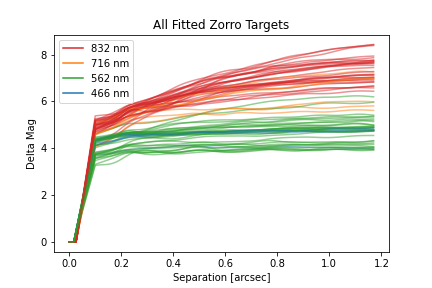
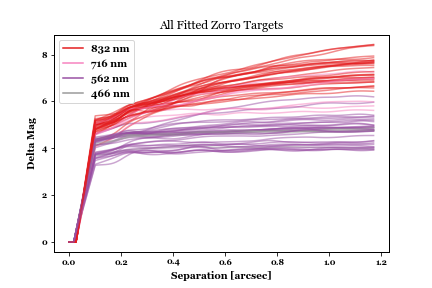
big ol update?

diff --git a/individual_plotting_draft.py b/individual_plotting_draft.py
@@ -1,7 +1,7 @@
 #!/usr/bin/env python3
 # -*- coding: utf-8 -*-
 """
-Created on Thu Jul 28 15:14:21 2022
+Created on Fri Aug  5 11:27:19 2022
 
 @author: kiramccracken
 """
@@ -12,8 +12,8 @@ import numpy as np
 import matplotlib.pyplot as plt
 import astropy.io.ascii as at
 
-#try grey and blue or grey and purple
-color_dict = {'562': '#984ea3', '832': '#e41a1c', '466': '#999999', '716': '#f781bf' }
+ssfont = {'fontname':'sans-serif'}
+color_dict = {'562': '#dede00', '832': '#e41a1c', '466': '#377eb8', '716': '#f781bf' }
 def starplot(star_name, ax):
     location =  "Google Drive/Shared drives/DouglasGroup/data/Zorro_data_reformatted/"
     location_and_name = os.path.join(os.path.expanduser(f"~/{location}"), star_name)
@@ -25,42 +25,17 @@ def starplot(star_name, ax):
             filter_num = fname.split('_')[-2]  
             dat = at.read(edited_fname)
             #gathering all information necessary to plot data
-          
+            
             ax.plot(dat['ann_center'], dat['delta_mag_limit'], label=f'{filter_num} nm', 
                     color = color_dict[filter_num], alpha = 0.5)     
             
   
 def one_star(star_name):
     ax = plt.subplot()
-    ax.set_xlabel('Separation [arcsec]')
-    ax.set_ylabel('Delta Mag')
-    ax.set_title(star_name)
+    ax.set_xlabel('Separation [arcsec]', **ssfont)
+    ax.set_ylabel('Delta Mag', **ssfont)
+    ax.set_title(star_name, **ssfont)
     starplot(star_name, ax)
     ax.legend()    
 
-
-def all_star_plot(star_names):
-    ax = plt.subplot()
-    ax.set_xlabel('Separation [arcsec]')
-    ax.set_ylabel('Delta Mag')
-    ax.set_title("All Fitted Zorro Targets")
-    filter_nums = [832, 716, 562, 466]
-    for filter_num in filter_nums:
-        ax.plot([], [], label=f'{filter_num} nm', 
-                color = color_dict[str(filter_num)], alpha = 1)
-    ax.legend()
-    for star_name in star_names:
-          print(star_name)
-          starplot(star_name, ax)
-    plt.savefig("all_fitted_zorro_targets_pyplot")   
-    #remake same plot but with fitted curves
-
-
-if __name__== "__main__":
-    # star_name = "IC2602b104256-6355"
-    # one_star(star_name)
-    
-    
-
-    star_names = at.read("all_zorro_targets.csv")
-    all_star_plot(star_names['name'])
+one_star("IC2602b104256-6355")

diff --git a/MOLUSC_reformatting_curves.py b/MOLUSC_reformatting_curves.py
@@ -17,6 +17,8 @@ import glob
     
 star_name = "IC2602b104422-6415" 
 
+#multiply separation column by 1000 cuz milliarcseconds 
+
 
         
 def one_star_table(star_name):
@@ -27,12 +29,14 @@ def one_star_table(star_name):
         if file_star_name.endswith('.dat'):
             edited_fname = os.path.expanduser(file_star_name)
             dat = at.read(edited_fname)
-            data_table = Table(data = [dat['ann_center'], dat['delta_mag_limit']], names=["Separation", "Delta Mag"])
+            dat['ann_center'] = dat['ann_center']*1000
+            data_table = Table(data = [dat['ann_center'], dat['delta_mag_limit']], names=["Sep", "Contrast"])
+            
             print(data_table)
             MOLUSC_fname = edited_fname.replace(".dat", "MOLUSC.dat")
             new_pathname = MOLUSC_fname.replace('Zorro_data_reformatted', 'Zorro_to_MOLUSC')
             at.write(data_table, new_pathname, overwrite = True)
-        
+                
 
 star_names = at.read("all_zorro_targets.csv")
 

diff --git a/plotting_draft.py b/plotting_draft.py
@@ -13,7 +13,7 @@ import matplotlib.pyplot as plt
 import astropy.io.ascii as at
 
 
-color_dict = {'562': 'C2', '832': 'C3', '466': 'C0', '716': 'C1' }
+color_dict = {'562': '#dede00', '832': '#e41a1c', '466': '#377eb8', '716': '#f781bf' }
 def starplot(star_name, ax):
     location =  "Google Drive/Shared drives/DouglasGroup/data/Zorro_data_reformatted/"
     location_and_name = os.path.join(os.path.expanduser(f"~/{location}"), star_name)
